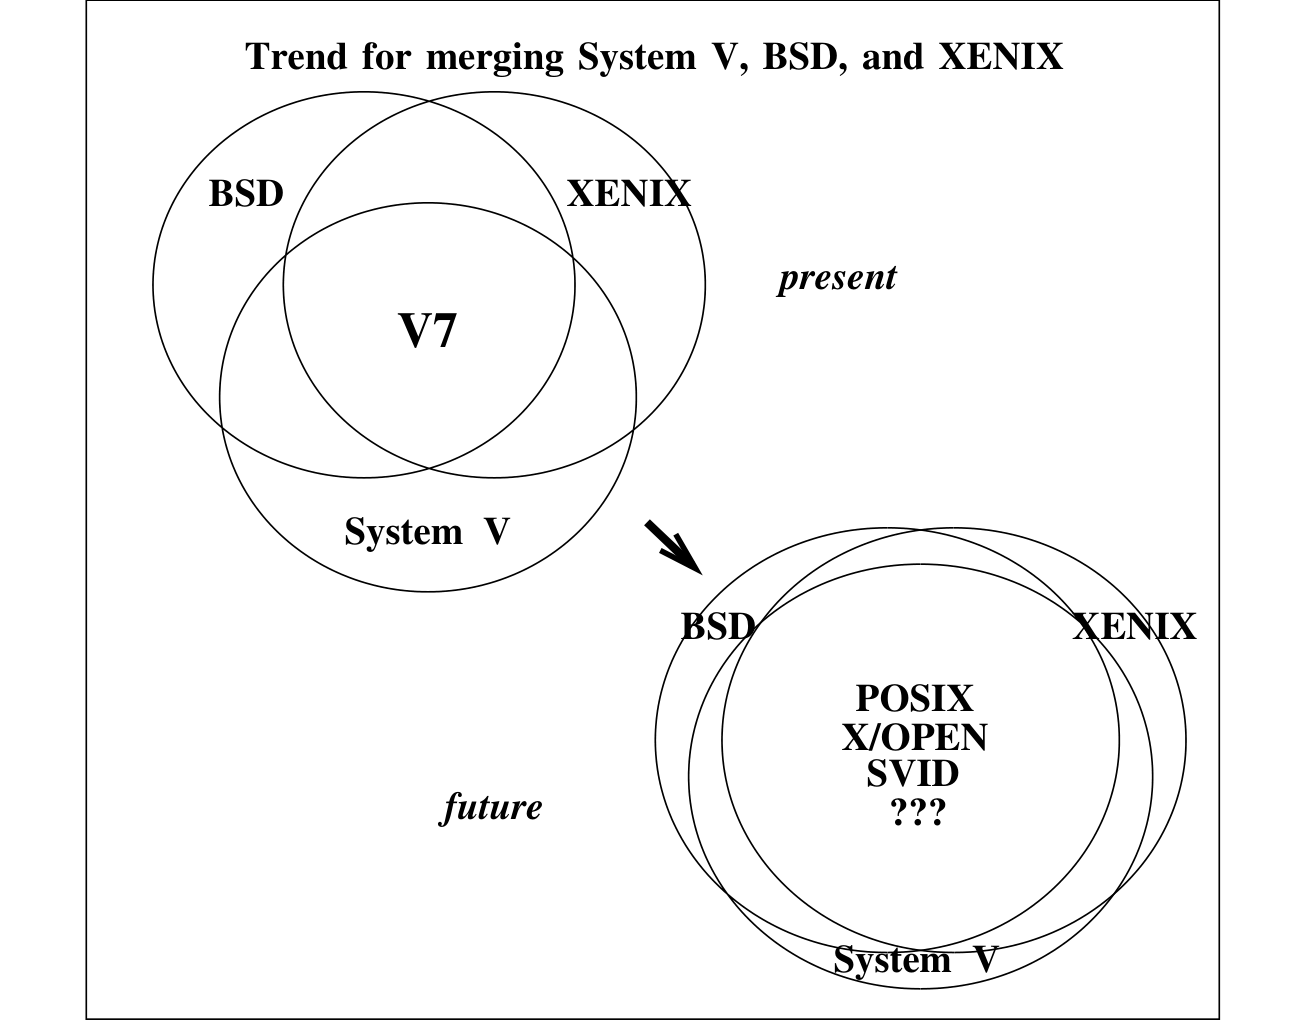
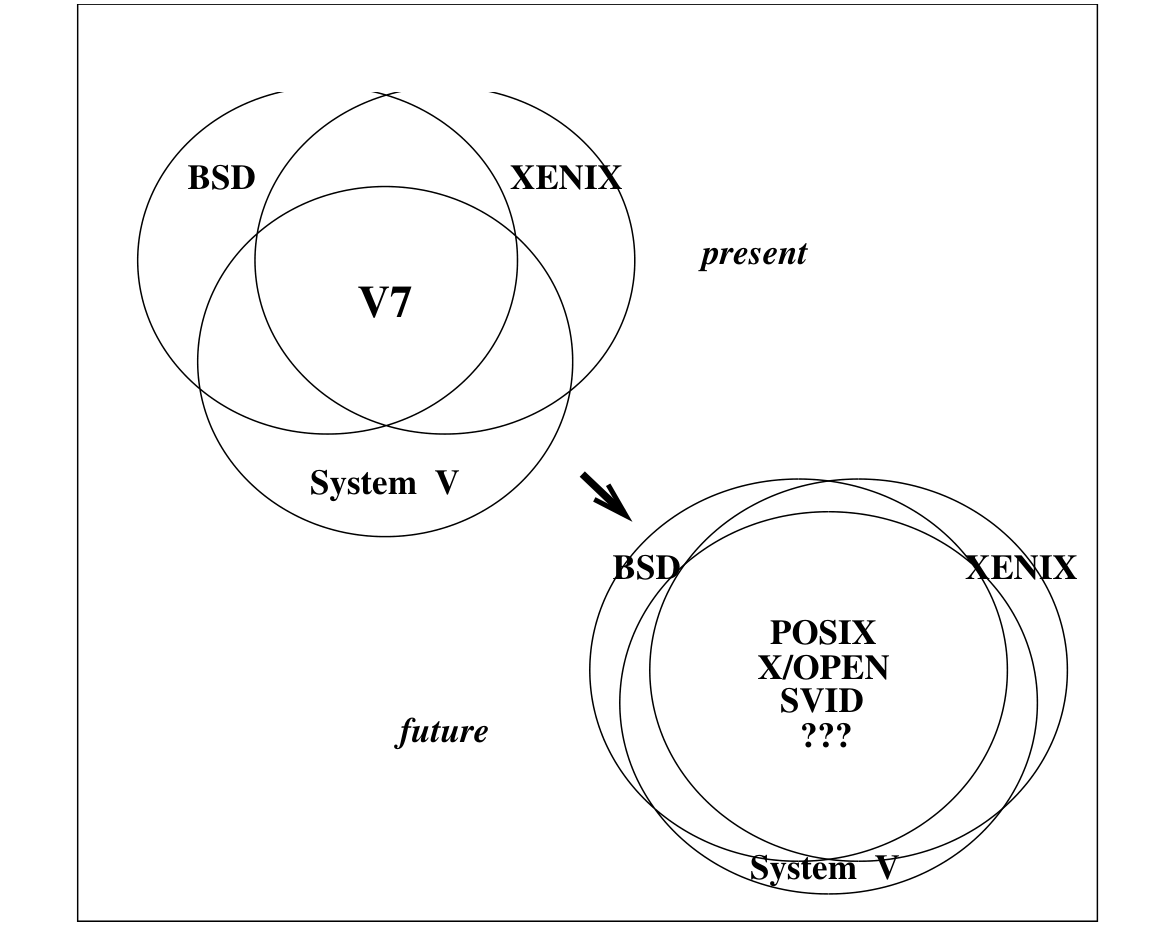
题注统一加粗并紧贴图表；fig-3-2 白除图内烧入的英文题注（assets 改动已注明）

diff --git a/di-yi-bu-fen-guo-qu-xian-zai-yu-wei-lai/3.2.-system-v-bsd-yu-xenix-de-rong-he.md b/di-yi-bu-fen-guo-qu-xian-zai-yu-wei-lai/3.2.-system-v-bsd-yu-xenix-de-rong-he.md
@@ -4,7 +4,9 @@
 
 最大的开发者显然是 AT&T，它做的一切都可能影响 UNIX 的未来。（其实处于这一位置的开发者还有几家，包括 IBM、Sun、微软，以及 Berkeley 这类主要研究机构。）
 
-![System V、BSD 与 XENIX 的融合趋势：现在（左）与未来（右）](../.gitbook/assets/fig-3-2-merging.png)
+![System V、BSD 与 XENIX 的融合趋势](../.gitbook/assets/fig-3-2-merging.png)
+
+**System V、BSD 与 XENIX 的融合趋势**
 
 > **译注**：原图为“System V、BSD 与 XENIX 的融合趋势”示意图。左侧的“现在”是 BSD、XENIX、V7、System V 四个相互交叠的圆，其中 V7 居中；右侧的“未来”里，BSD 与 XENIX 化作两个同心圆环，把 System V 套在正中，内圈标着 POSIX、X/OPEN、SVID 与“???”，意指各标准逐渐收拢到 System V 周围。
 

diff --git a/di-san-bu-fen-unix-nei-bu/6.2.-shell-ji-chu.md b/di-san-bu-fen-unix-nei-bu/6.2.-shell-ji-chu.md
@@ -189,6 +189,8 @@ UNIX 是多任务操作系统（你也会听到“多进程操作系统”的说
 
 ![SunWindows 在一块屏幕上运行多个应用](../.gitbook/assets/fig-6-2-windows.png)
 
+**SunWindows 在一块屏幕上运行多个应用**
+
 同时使用窗口和作业控制是可能的。怎么做到？在一个窗口里运行 shell，你就能用作业控制把好几个程序放到后台跑（而且还能使用 ed 等程序里依然存在的旧式转义命令！）。还可以用作业控制挂起窗口管理器本身，从而挂起整套窗口——有点像从这张桌子起身挪到另一张桌子。
 
 各种窗口系统的参考资料见讲应用的章节。

diff --git a/di-yi-bu-fen-guo-qu-xian-zai-yu-wei-lai/1.2.-chuang-shi-zhi-chu.md b/di-yi-bu-fen-guo-qu-xian-zai-yu-wei-lai/1.2.-chuang-shi-zhi-chu.md
@@ -16,6 +16,8 @@
 
 按照手册的版次（edition）来命名 UNIX 的发行版本，从此成了惯例。这里有个容易混淆的地方：版次也叫版本（version），两者说的是同一回事。比如 Version 7 就是第 7 版。
 
+**UNIX 的主要演化步骤**
+
 | 年份 | USDL / USG / PWB | Research（Dennis、Ken 等） | Berkeley |
 | ---- | ---------------- | ------------------------- | -------- |
 | 1969 | | （PDP-7） | |

diff --git a/di-si-bu-fen-unix-zhi-wai/11.8.-zhuo-mian-chu-ban.md b/di-si-bu-fen-unix-zhi-wai/11.8.-zhuo-mian-chu-ban.md
@@ -20,4 +20,4 @@ ditroff 是 troff 的重写版（代表 “device-independent troff”，读作 
 
 ![作者撰写《UNIX 生活》时的屏幕](../.gitbook/assets/fig-11-9-authors-screen.png)
 
-*作者撰写《UNIX 生活》时的屏幕。*
+**作者撰写《UNIX 生活》时的屏幕。**
